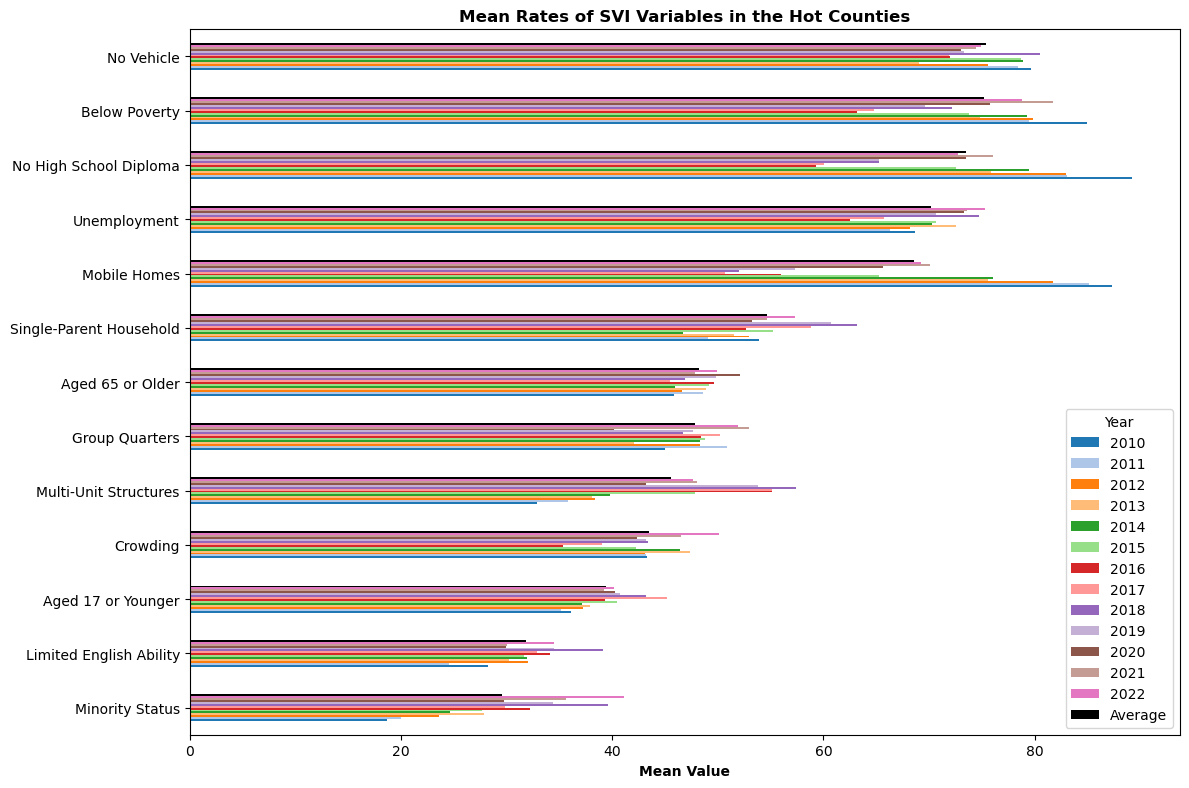
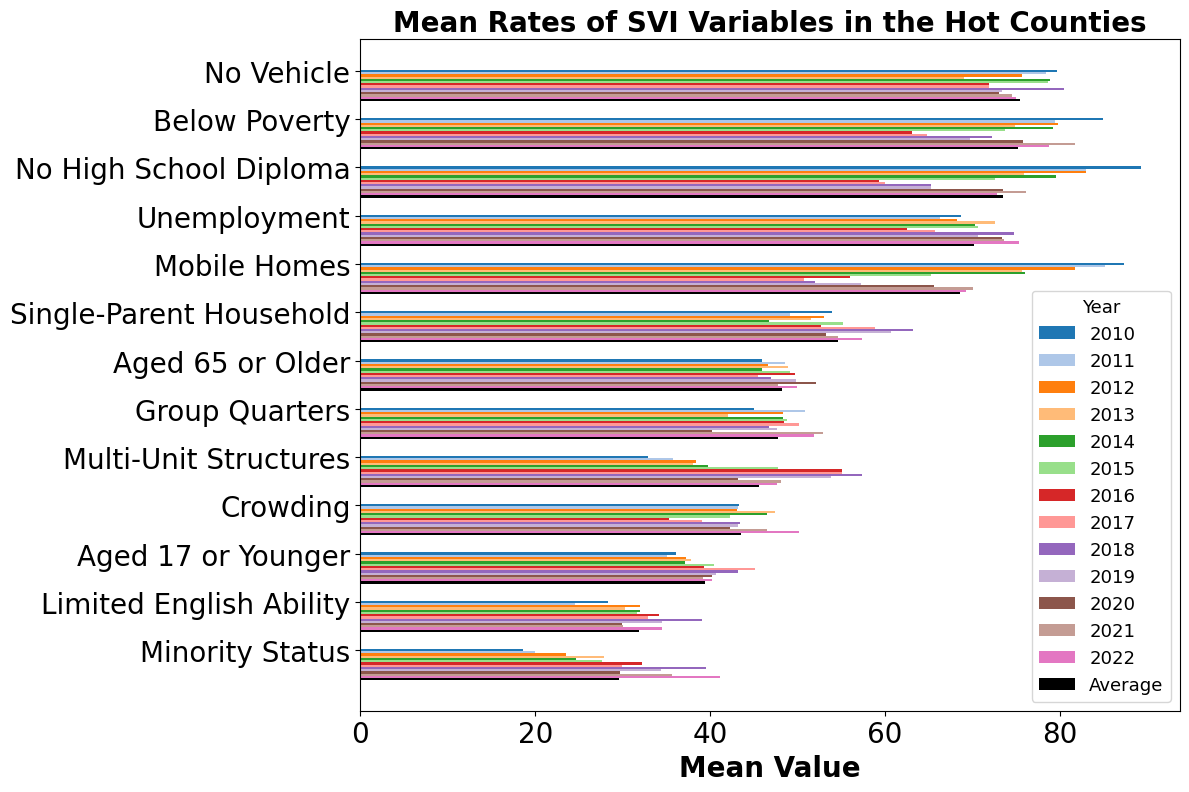
update

diff --git a/Anomalies/boxplots.py b/Anomalies/boxplots.py
@@ -123,16 +123,35 @@ def hot_anomaly_summary(hot_means_by_year):
     for feature, mean in hot_means_df_flipped_for_printing['Average'].items():
         logging.info(f"{feature}: {mean:.2f}")
 
-    # Color the bars on the importance plot
+    # Plot customization
     num_years = len(hot_means_by_year)
     colors = list(plt.cm.tab20.colors[:num_years]) + ['black']  # Add black for the 'Average' column
 
-    # Plot the means over the years
-    ax = hot_means_df.plot(kind='barh', figsize=(12, 8), legend=True, color=colors)
+    # Create figure and axis
+    fig, ax = plt.subplots(figsize=(12, 8))
 
-    plt.title('Mean Rates of SVI Variables in the Hot Counties', fontweight='bold')
-    plt.xlabel('Mean Value', fontweight='bold')
-    plt.legend(title='Year', bbox_to_anchor=(1, 0), loc='lower right')
+    # Get the variables (rows) and years (columns)
+    variables = hot_means_df.index
+    years = hot_means_df.columns
+
+    # Define bar width and positions for each group
+    bar_width = 0.6
+    y_positions = np.arange(len(variables))  # Spacing between variable groups
+
+    # Plot each year's bars
+    for i, year in enumerate(years):
+        ax.barh(y_positions - i * bar_width / num_years, hot_means_df[year], 
+                height=bar_width / num_years, label=year, color=colors[i])
+
+    # Adjust labels, title, and legend
+    ax.set_yticks(y_positions)
+    ax.set_yticklabels(variables, fontsize=20)
+    ax.set_xlabel('Mean Value', fontsize=20, fontweight='bold')
+    ax.tick_params(axis='x', labelsize=20)  # Increase the font size of x-axis tick labels
+    ax.set_title('Mean Rates of SVI Variables in the Hot Counties', fontsize=20, fontweight='bold')
+    ax.legend(title='Year', fontsize=13, title_fontsize=13, loc='lower right')
+
+    # Maintain whitespace between groups by tweaking spacing
     plt.tight_layout()
     plt.savefig('Feature Importance/hot_anomaly_summary.png', bbox_inches='tight')
     plt.close()
@@ -153,16 +172,35 @@ def cold_anomaly_summary(cold_means_by_year):
     for feature, mean in cold_means_df_flipped_for_printing['Average'].items():
         logging.info(f"{feature}: {mean:.2f}")
 
-    # Color the bars on the importance plot
+    # Plot customization
     num_years = len(cold_means_by_year)
     colors = list(plt.cm.tab20.colors[:num_years]) + ['black']  # Add black for the 'Average' column
 
-    # Plot the means over the years
-    ax = cold_means_df.plot(kind='barh', figsize=(12, 8), legend=True, color=colors)
+    # Create figure and axis
+    fig, ax = plt.subplots(figsize=(12, 8))
 
-    plt.title('Mean Rates of SVI Variables in the Cold Counties', fontweight='bold')
-    plt.xlabel('Mean Value', fontweight='bold')
-    plt.legend(title='Year', bbox_to_anchor=(1, 1), loc='upper right')
+    # Get the variables (rows) and years (columns)
+    variables = cold_means_df.index
+    years = cold_means_df.columns
+
+    # Define bar width and positions for each group
+    bar_width = 0.6
+    y_positions = np.arange(len(variables))  # Spacing between variable groups
+
+    # Plot each year's bars
+    for i, year in enumerate(years):
+        ax.barh(y_positions - i * bar_width / num_years, cold_means_df[year], 
+                height=bar_width / num_years, label=year, color=colors[i])
+
+    # Adjust labels, title, and legend
+    ax.set_yticks(y_positions)
+    ax.set_yticklabels(variables, fontsize=20)
+    ax.set_xlabel('Mean Value', fontsize=20, fontweight='bold')
+    ax.tick_params(axis='x', labelsize=20)  # Increase the font size of x-axis tick labels
+    ax.set_title('Mean Rates of SVI Variables in the Cold Counties', fontsize=20, fontweight='bold')
+    ax.legend(title='Year', fontsize=15, title_fontsize=15, loc='upper right')
+
+    # Maintain whitespace between groups by tweaking spacing
     plt.tight_layout()
     plt.savefig('Feature Importance/cold_anomaly_summary.png', bbox_inches='tight')
     plt.close()
